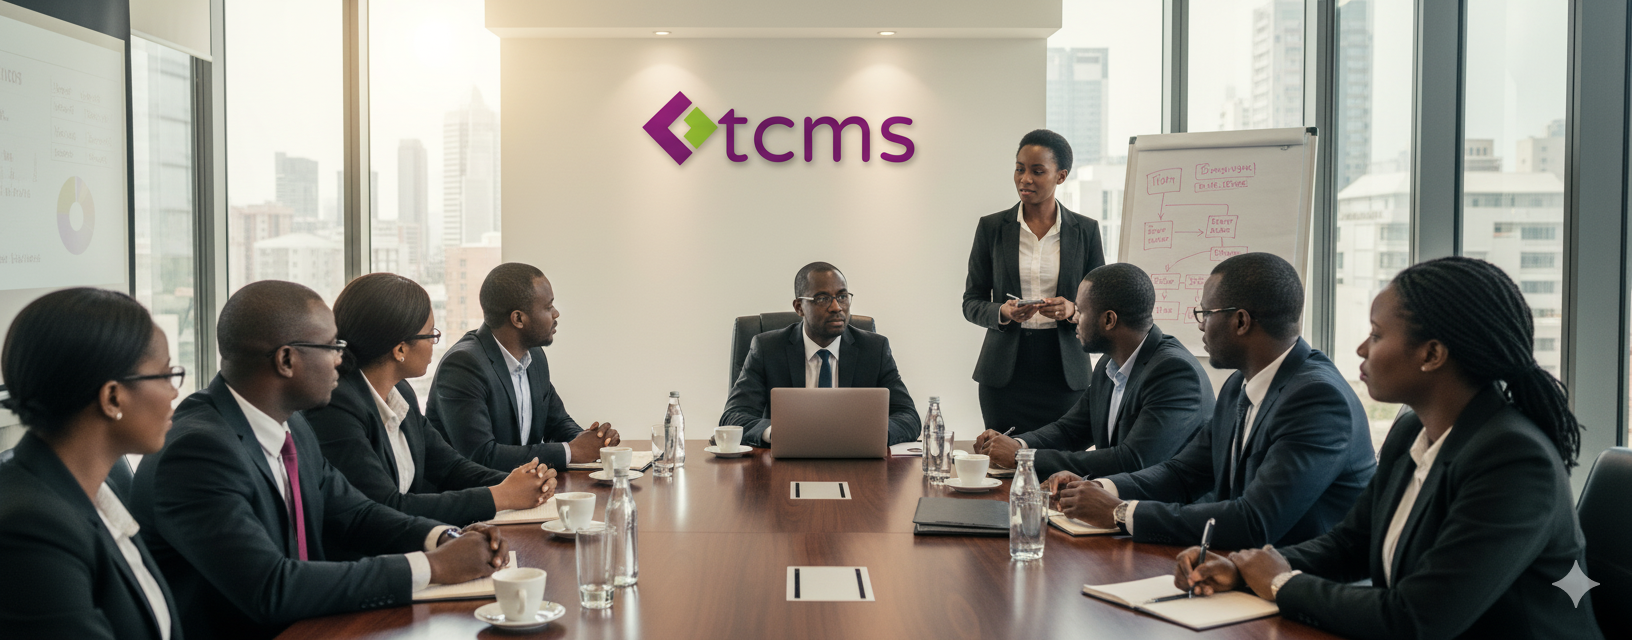
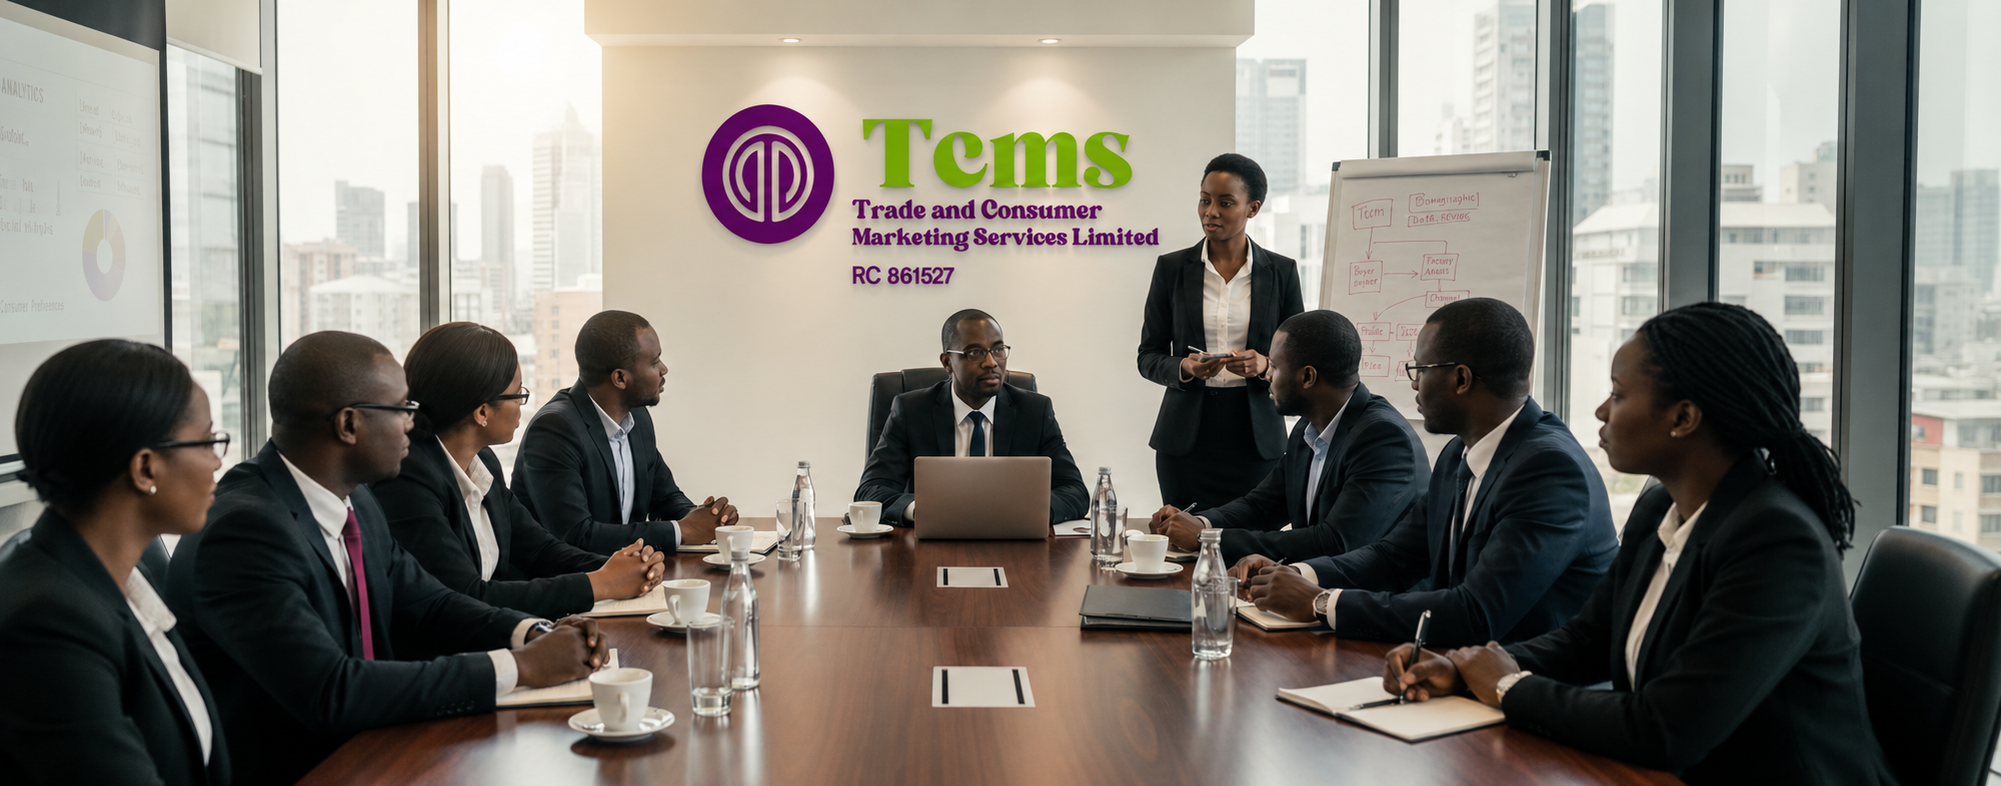
Update hero and service imagery

diff --git a/app/globals.css b/app/globals.css
@@ -149,6 +149,7 @@ img { max-width: 100%; }
 .about-image-frame { position: relative; aspect-ratio: 1999 / 787; }
 .about-image-frame img { object-fit: contain; object-position: center; }
 .image-caption { display: flex; justify-content: space-between; padding: 22px 25px; color: #eae4f1; background: rgba(30,13,61,.78); font-size: .73rem; letter-spacing: .04em; text-transform: uppercase; }
+.about-copy .eyebrow { color: var(--lime); }
 .about-copy .section-heading h2 { color: var(--white); }
 .about-copy > p { margin: 24px 0 0; color: #cfc8dc; font-size: 1.05rem; line-height: 1.72; }
 .check-list { display: grid; gap: 13px; margin: 30px 0 36px; padding: 0; list-style: none; }
@@ -208,10 +209,10 @@ img { max-width: 100%; }
 .service-detail:hover > p, .service-detail:hover li { color: #cdc6db; }
 .service-gallery-section { padding-top: 20px; background: var(--white); }
 .service-gallery-section .section-heading { margin-bottom: 50px; }
-.service-gallery { display: grid; grid-template-columns: repeat(2, 1fr); gap: 15px; }
-.service-gallery-item { position: relative; aspect-ratio: 51 / 20; overflow: hidden; border-radius: 6px; }
+.service-gallery { display: grid; grid-template-columns: repeat(2, minmax(0, 1fr)); gap: 20px; }
+.service-gallery-item { position: relative; aspect-ratio: 1672 / 941; overflow: hidden; border: 1px solid rgba(49,19,96,.1); border-radius: 10px; background: #f1efeb; box-shadow: 0 18px 42px rgba(32,20,48,.08); }
 .service-gallery-item img { object-fit: contain; }
-.service-gallery .item-1 { grid-column: 1 / -1; }
+.service-gallery .item-3 { grid-column: 1 / -1; aspect-ratio: 2001 / 786; }
 
 /* Work */
 .work-section { background: var(--paper); }
@@ -370,7 +371,7 @@ img { max-width: 100%; }
   .hero-background, .hero-overlay { inset: 0; height: 100%; }
   .hero-background { overflow: hidden; background: var(--purple-dark); }
   .hero-background::before { content: none; }
-  .hero-background img { z-index: 1; object-fit: cover; object-position: 50% center; }
+  .hero-background img { z-index: 1; object-fit: contain; object-position: center top; }
   .hero-overlay {
     z-index: 2;
     background:
@@ -395,7 +396,7 @@ img { max-width: 100%; }
   .service-detail { grid-template-columns: 1fr 1fr; }
   .service-detail > p { grid-column: 1 / span 2; }
   .service-gallery { grid-template-columns: 1fr; }
-  .service-gallery .item-1 { grid-column: auto; }
+  .service-gallery .item-3 { grid-column: auto; }
   .work-grid { grid-template-columns: 1fr; }
   .mission-grid { gap: 40px; }
   .contact-details { max-width: 600px; }

diff --git a/app/page.tsx b/app/page.tsx
@@ -17,10 +17,10 @@ function HeroPicture() {
   };
   const {
     props: { srcSet: desktop },
-  } = getImageProps({ ...common, src: "/images/hero-team-current.png", width: 2004, height: 785 });
+  } = getImageProps({ ...common, src: "/images/hero-team-latest.png", width: 2001, height: 786 });
   const {
     props: { srcSet: mobile, alt, ...rest },
-  } = getImageProps({ ...common, src: "/images/hero-team-mobile.png", width: 941, height: 1672 });
+  } = getImageProps({ ...common, src: "/images/hero-team-mobile-latest.png", width: 941, height: 1672 });
 
   return (
     <picture className="hero-picture">

diff --git a/app/services/page.tsx b/app/services/page.tsx
@@ -12,9 +12,9 @@ export const metadata: Metadata = {
 };
 
 const serviceImages = [
-  "/images/service-strategy-current.png",
-  "/images/service-territory-current.png",
-  "/images/service-research-current.png",
+  "/images/service-strategy-latest.png",
+  "/images/service-territory-latest.png",
+  "/images/service-research-latest.png",
 ];
 
 export default function ServicesPage() {
